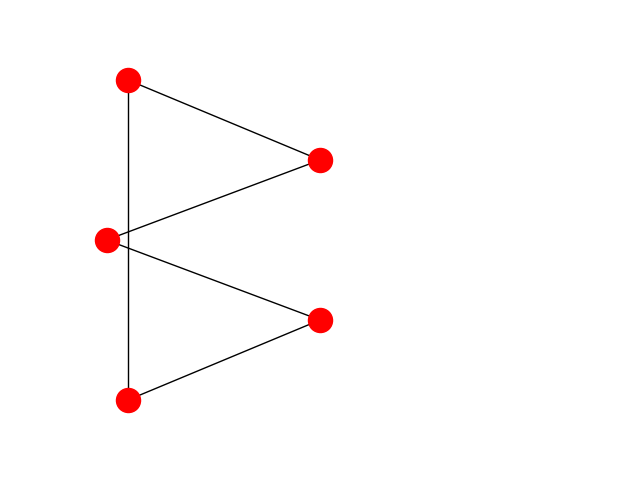
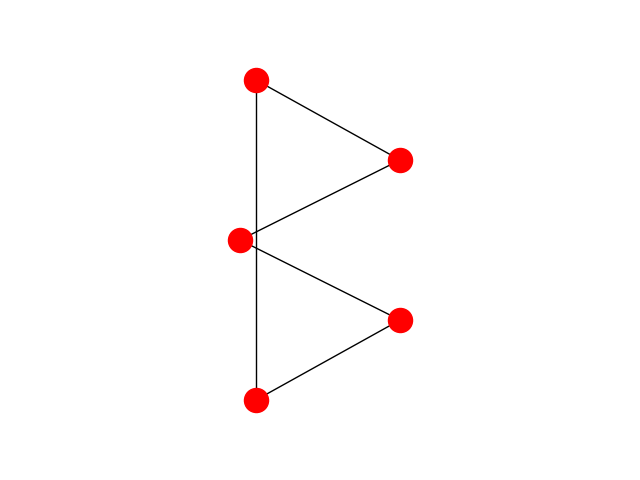
Add nodes to the basic prototype given a threshold

diff --git a/generate_dataset.py b/generate_dataset.py
@@ -1,0 +1,43 @@
+import argparse
+import glob
+from Element import Element
+import shutil
+import os
+
+parser = argparse.ArgumentParser(description='Generate a dataset from a given prototype folder.')
+
+# Prototypes
+parser.add_argument('--dirPrototypes', help='prototype folder', default=['./prototypes/Letters/', './prototypes/Digits/'])
+parser.add_argument('--nodeThreshold', help='prototypes node threshold', default=0.4)
+
+# Dataset
+parser.add_argument('--dirDataset', help='dataset folder', default='./dataset/Letters/')
+parser.add_argument('--division', help='division (tr, val, te)', default=(5000, 3000, 3000))
+
+args = parser.parse_args()
+
+if __name__ == '__main__':
+
+    # If some dataset is previously created within the same folder, DELETE
+    if os.path.isdir(args.dirDataset):
+        shutil.rmtree(args.dirDataset)
+
+    # Create folder structure
+    os.makedirs(args.dirDataset)
+    os.makedirs(args.dirDataset+'train/')
+    os.makedirs(args.dirDataset+'validation/')
+    os.makedirs(args.dirDataset+'test/')
+
+    # Find prototypes
+    proto_files = []
+    for i in range(len(args.dirPrototypes)):
+        proto_files += glob.glob(args.dirPrototypes[i] + '*.gml')
+    num_class = len(proto_files)
+
+    for i in range(num_class):
+        el = Element(proto_files[i])
+
+        if args.nodeThreshold is not None:
+            el.add_nodes(args.nodeThreshold)
+
+        g = el.distort()

diff --git a/Element.py b/Element.py
@@ -1,9 +1,41 @@
-import networkx as nx
+from __future__ import division
 
+import networkx as nx
+import numpy as np
 
 class Element:
     def __init__(self, f_name):
         self.el = nx.read_gml(f_name)
+        self.label = self.el.graph['class']
 
     def distort(self):
-        nx.write_gml(g, f_name)
+        # TODO
+        pass
+
+    def add_nodes(self, d):
+
+        # Create a new graph
+        g = nx.Graph()
+
+        # Initialize the nodes given by the prototype
+        g.add_nodes_from(self.el.nodes(data=True))
+
+        for s, t, w in self.el.edges_iter(data=True):
+
+            diff_coord = np.array(self.el.node[t]['coord']) - np.array(self.el.node[s]['coord'])
+
+            dist = np.linalg.norm(diff_coord)
+            node_to_add = int(dist/d)
+
+            inc = 1/node_to_add
+
+            # Add first node
+            g.add_node(len(g.node), {'coord': (inc * diff_coord + self.el.node[s]['coord']).tolist()})
+            g.add_edge(s, len(g.node)-1)
+
+            for i in range(2, node_to_add):
+                g.add_node(len(g.node), {'coord': (i*inc*diff_coord + self.el.node[s]['coord']).tolist()})
+                g.add_edge(len(g.node)-2, len(g.node)-1)
+
+            g.add_edge(len(g.node) - 1, t)
+        self.el = g

diff --git a/Plotter.py b/Plotter.py
@@ -6,7 +6,7 @@ def plot_graph(g, show=False, save_path=''):
     fig = plt.figure()
     nx.draw(g, pos={k: v['coord'] for k, v in g.node.items()})
     plt.ylim([0-0.5, 2+0.5])
-    plt.xlim([0-0.5, 2+0.5])
+    plt.xlim([0-1.5, 1+1.5])
     if show:
         plt.show()
     fig.savefig(save_path)
